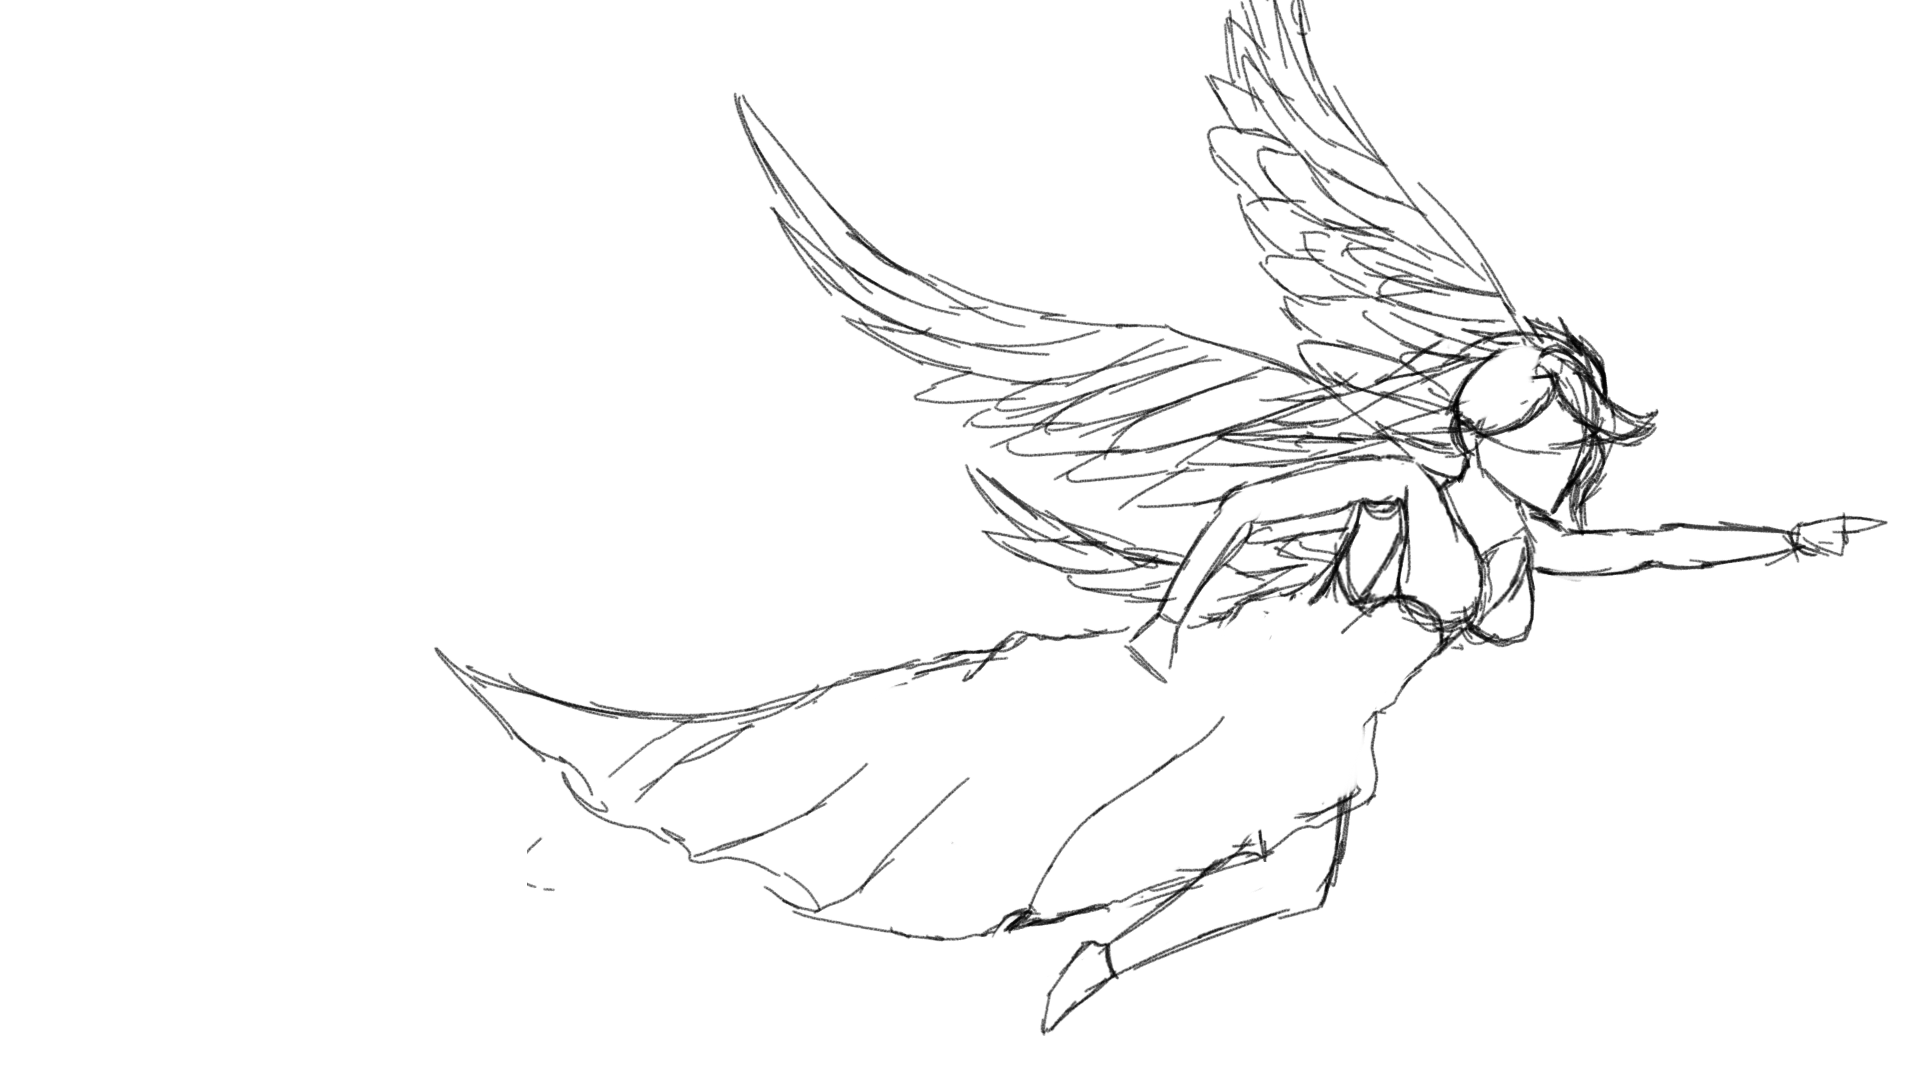
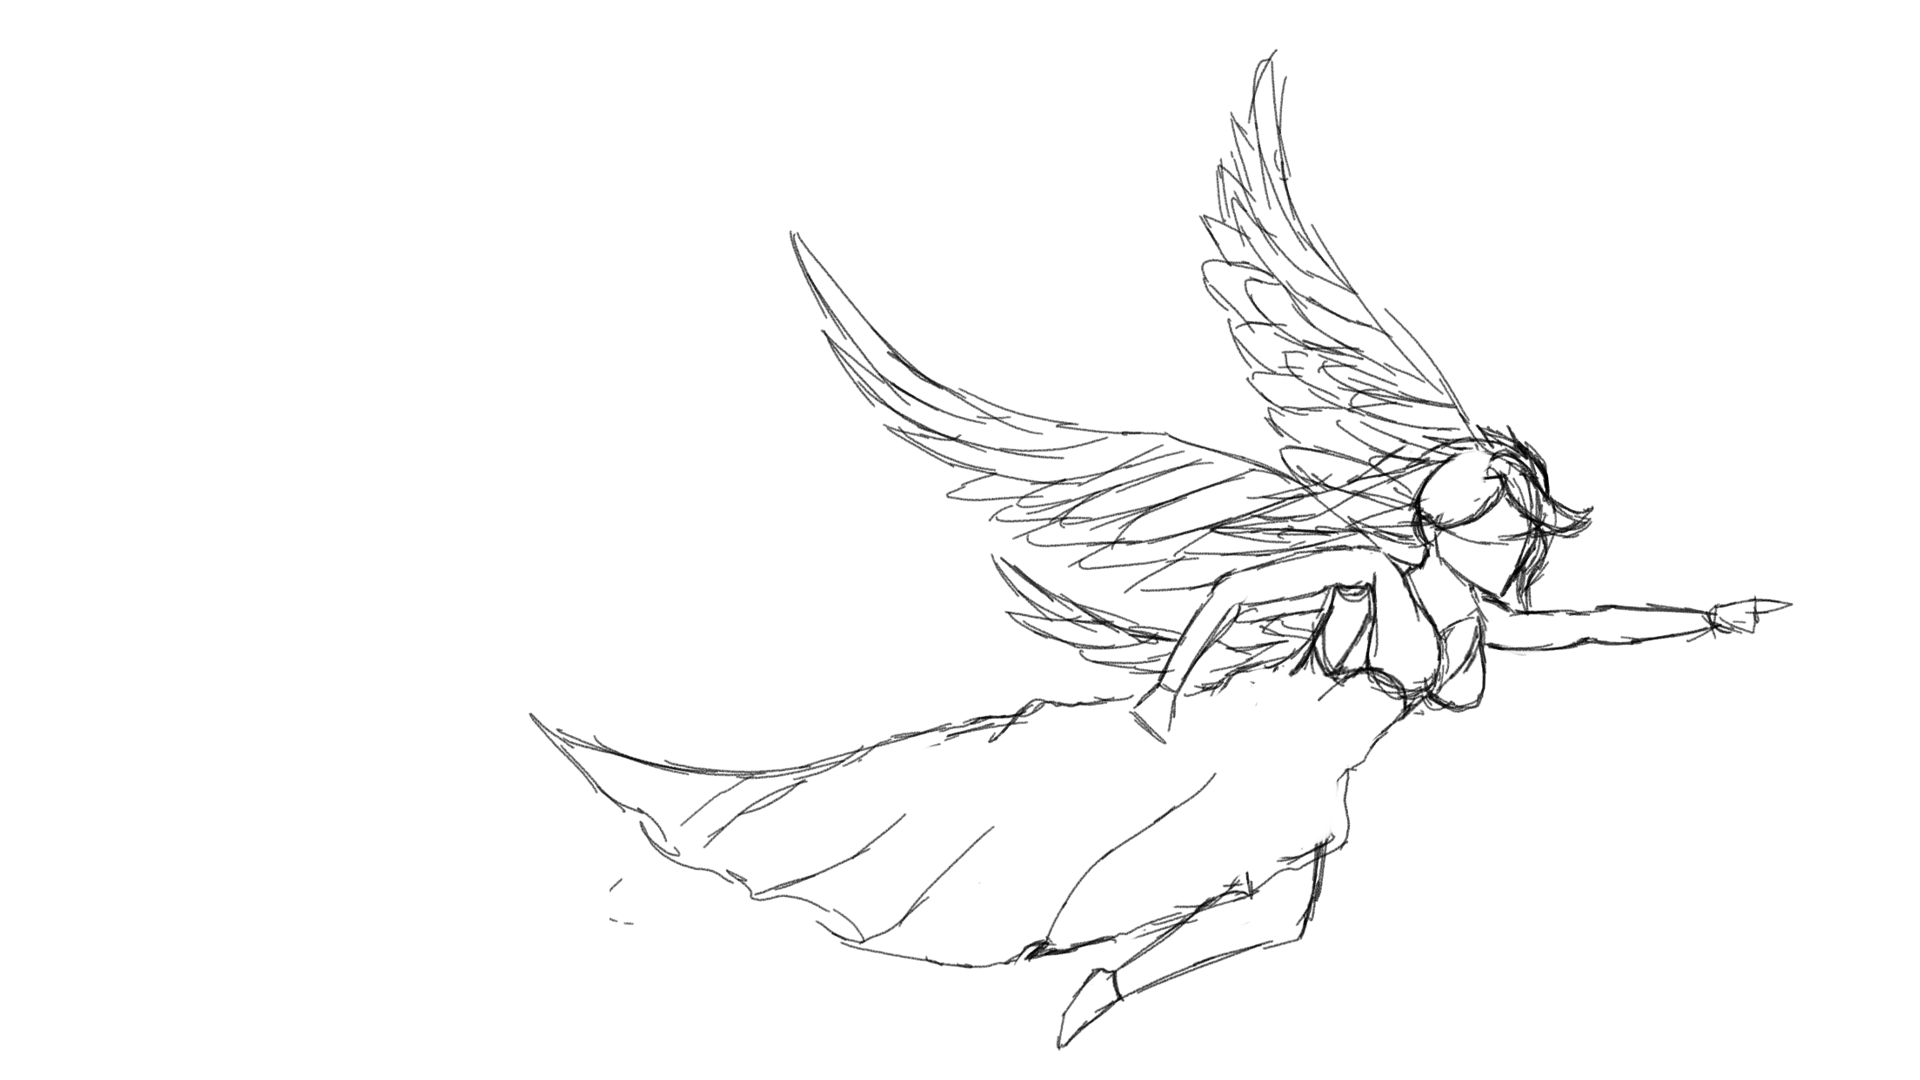
feat(Elioty): Call Animations

Changed region(s): [[0.2188, 0.0, 0.9688, 0.8556], [0.4375, 0.6722, 0.7188, 0.9778], [0.5625, 0.7333, 0.625, 0.7639]]

diff --git a/src/components/sections/Call/index.tsx b/src/components/sections/Call/index.tsx
@@ -1,18 +1,25 @@
+"use client"
 import Image from "next/image";
-import style from "./style.module.scss"
-import { debsAnim } from "./anim"
+import styles from "./style.module.scss"
+import { debsAnim, containerAnim } from "./anim"
 import { motion } from "framer-motion"
+import SplitText from "@/components/SliptText";
+import { useState } from "react";
 
 interface props {
   canAnimate: boolean
 }
 
 const index = ({canAnimate}: props) => {
+  const [canAnimateSplit, setCanAnimateSplit] = useState(false)
+
   return ( 
-    <div>
+    <div className={styles.main}>
       <motion.div
         variants={debsAnim}
         initial=" initial"
+        animate={canAnimate ? "enter" : "initial"}
+        className={styles.bg}
       >
         <Image 
           src= "/img/call/call-img.png"
@@ -20,6 +27,23 @@ const index = ({canAnimate}: props) => {
           width={1280}
           height={720}
         />
+      </motion.div>
+
+      <motion.div 
+        variants={containerAnim}
+        initial="initial"
+        animate={`${canAnimate ? "enter" : "initial"}`}
+        className={styles.container}
+        onAnimationStart={() => {
+          const containerDelay = 800 // 👈 valor em milissegundos
+          setTimeout(() => {
+            setCanAnimateSplit(canAnimate)
+          }, containerDelay)
+        }}
+      >
+          <SplitText content="Mission" canAnimate={canAnimateSplit} style="title"/>
+       
+          <SplitText duration={0.5} delay={0.05} style="text" content="We are BEYOND COMPANY®, a platform where fans, nerds, and artists collaborate in the creation of an interconnected universe of comics, games, and animations. Our mission is to become the leading reference in immersive entertainment, revolutionizing the way people create and interact with content." canAnimate={canAnimateSplit}/>
       </motion.div>
     </div>
    );

diff --git a/src/components/sections/Call/anim.js b/src/components/sections/Call/anim.js
@@ -1,12 +1,31 @@
 export const debsAnim = {
   initial:{
-    x: -300
+    x: -600,
+    y: -300
   },
   enter:{
     x: 0,
+    y: 0,
     transition: {
-      duration: 1.5,
+      duration: 2,
       ease: [0.76, 0, 0.24, 1],
     },
   }
+}
+
+export const containerAnim = {
+  initial: { 
+    x: 200,
+    y: 100
+  },
+  enter: { 
+    x: 0,
+    y: 0,
+    transition: {
+      delay: 0.8,
+      delayChildren: 1.3,
+      duration: 1.3,
+      ease: [0.76, 0, 0.24, 1],
+    },
+  },
 }

diff --git a/src/components/sections/Call/style.module.scss b/src/components/sections/Call/style.module.scss
@@ -1,0 +1,29 @@
+.main{
+  width: 100%;
+  height: 100%;
+  .bg {
+    width: 100%;
+    height: 100%;
+    position: absolute;
+    top: 0;
+    left: 0;
+    img{
+      width: 100%;
+      height: 100%;
+      object-fit: cover;
+    }
+  }
+
+  padding-left: 80px;
+
+  .container{
+    width: 500px;
+    height: 600px;
+    display: flex;
+    flex-direction: column;
+    justify-content: center;
+    align-items: center;
+    padding: 20px;
+    gap: 10px;
+  }
+}

diff --git a/src/app/page.tsx b/src/app/page.tsx
@@ -95,6 +95,7 @@ export default function Home() {
       .from(".call",{
         opacity: 0,
         scale: 0,
+        borderRadius: "100%",
         onComplete: () => setCanAnimateCall(true),
         onStart: () => setCanAnimateCall(false),
       })
